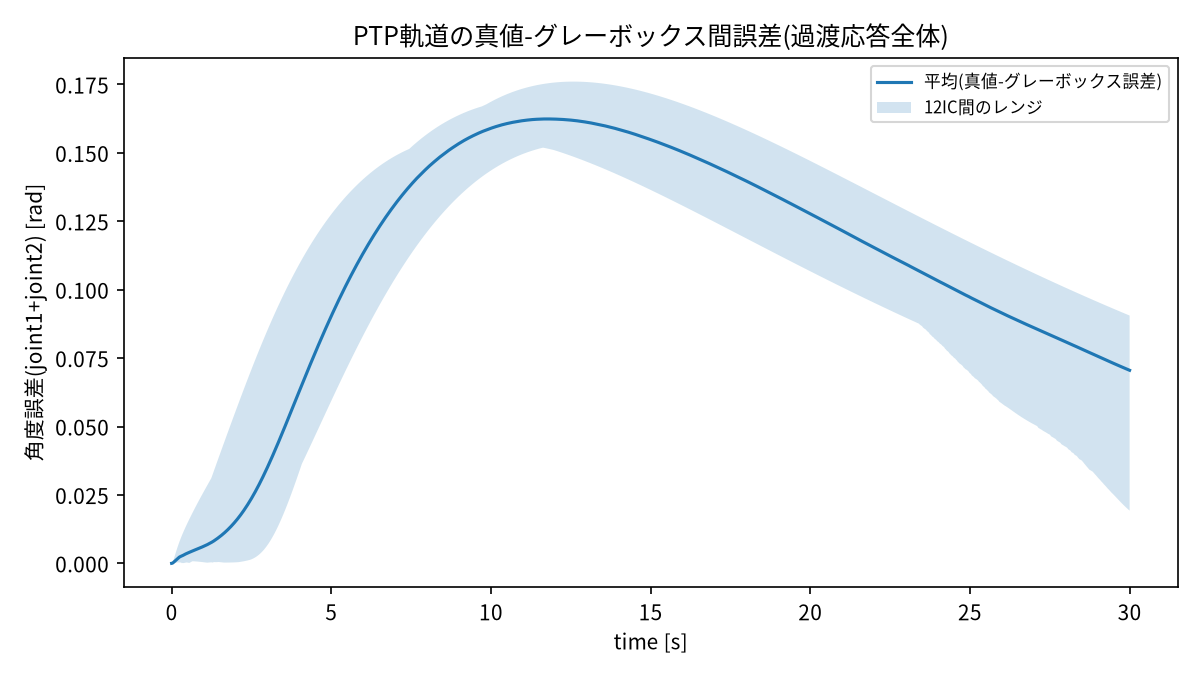
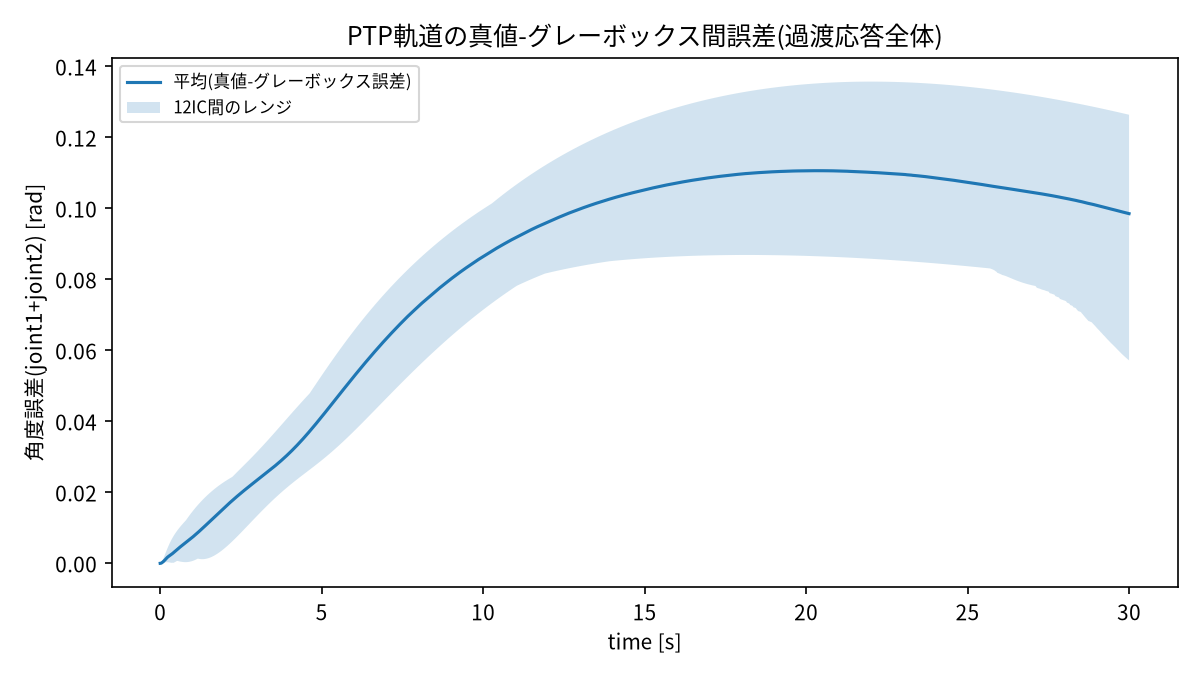
M8: FRICTION_SIGN_EPSを0.01に縮小し摩擦推定バイアスをさらに軽減 (#16)
M7(#13)で判明した「グレーボックスが真値より速く整定する」問題への対応。
PTP収束中は|q_dot|<0.05の低速域が頻繁に発生するため、eps=0.05では
tanh(q_dot/eps)がsign(q_dot)から乖離していた。0.01に縮小することで:

- 摩擦推定バイアス(オーバーシュート区間RMS): joint1 0.013→0.008, joint2 0.005→0.001
- 負オフセット側6ICで真値との整定時間差が大幅縮小
- ただし正オフセット側、特に最大オフセットの外れ値ICは改善せず(悪化するものも)
  → トルク飽和領域の問題は別要因(#16で継続調査)

Claude-Session: https://claude.ai/code/session_01Rvrf6mcbh1UrexApn66z2b

diff --git a/src/model.py b/src/model.py
@@ -50,7 +50,9 @@ def _make_mlp(in_dim: int, out_dim: int, hidden_dim: int, n_hidden_layers: int) 
     return nn.Sequential(*layers)
 
 
-FRICTION_SIGN_EPS = 0.05  # sign(q_dot)の滑らかな近似 tanh(q_dot/eps) のスケール
+FRICTION_SIGN_EPS = 0.01  # sign(q_dot)の滑らかな近似 tanh(q_dot/eps) のスケール
+# M8 (#15): 0.05ではPTP収束中の|q_dot|<0.05領域でtanh特徴量がsign(q_dot)から
+# 乖離し、joint1の摩擦推定バイアスが残っていたため0.01に縮小。
 
 
 def friction_sign_features(state: torch.Tensor) -> torch.Tensor:

diff --git a/README.md b/README.md
@@ -84,6 +84,16 @@ pip install -r requirements.txt
   バイアスが縮小し(オーバーシュート区間RMS: joint1 0.021→0.013、joint2
   0.018→0.005)、副次効果として開ループロールアウトRMSEも大幅改善(ゼロトルク:
   0.33→0.14、ランダムトルク列: 0.48→0.14)。PTP制御は引き続き12/12成功を維持。
+- **M7** (完了, #13): 最終誤差の到達判定だけでは検証できていなかった整定時間・
+  過渡応答全体の一致度を新たに評価。12IC中10ICでグレーボックスが真値より
+  大幅に速く整定し(過渡応答が楽観的すぎる)、最大オフセットの2ICでは逆に
+  大幅に遅く整定するという、成功判定だけでは見えない不一致を発見。
+- **M8** (完了, #15): M7で見つかった「速すぎる整定」に対応し、`FRICTION_SIGN_EPS`
+  を0.05→0.01に縮小(PTP収束中の低速域でtanh特徴量がsign(q_dot)からより
+  乖離しないように)。摩擦推定バイアスが更に縮小し(オーバーシュート区間RMS:
+  joint1 0.013→0.008、joint2 0.005→0.001)、負オフセット側のICで整定時間の
+  差が大幅縮小。ただし最大オフセットの外れ値ICは改善せず(むしろ悪化)、
+  トルク飽和領域の問題は別要因として残る(#16で継続調査)。
 
 ## ディレクトリ構成
 
